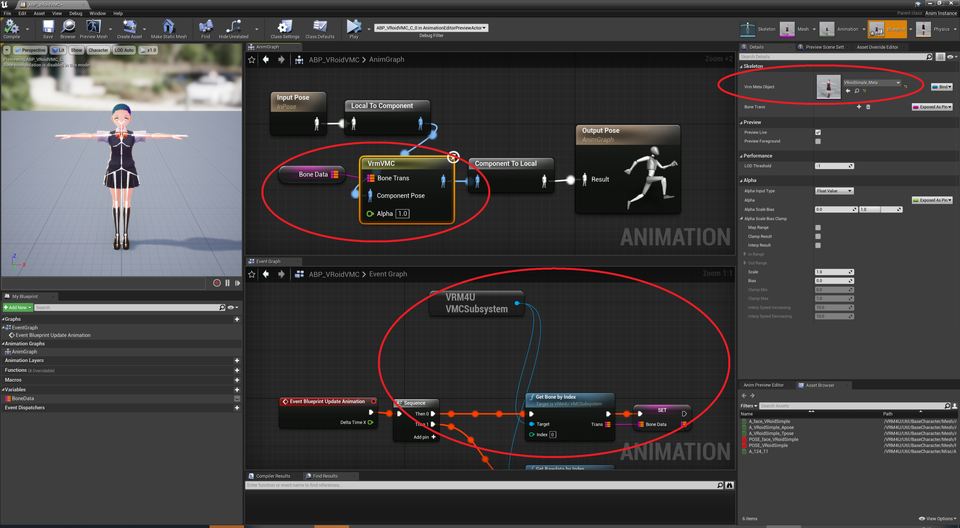
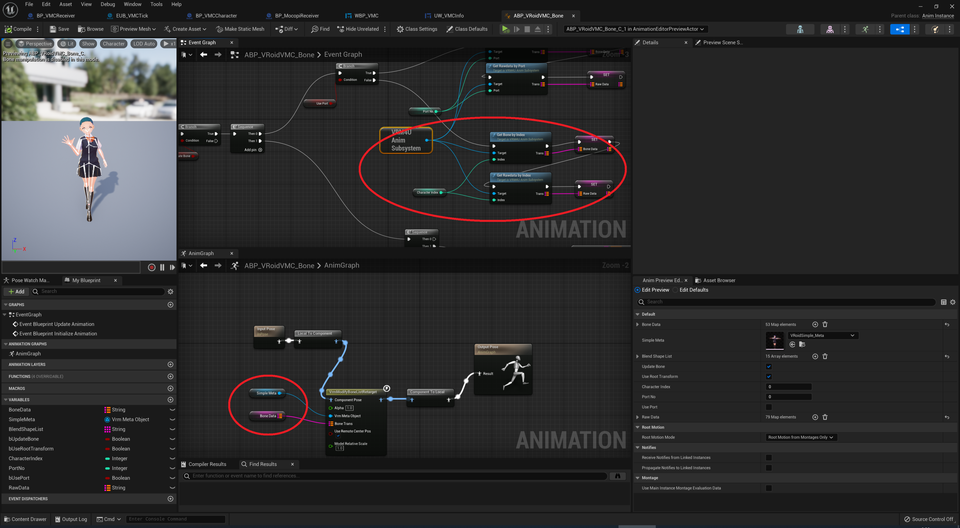
VMC詳細追加

diff --git a/VRM4U/08_vmc.md b/VRM4U/08_vmc.md
@@ -25,15 +25,42 @@ Virtual Motion Capture Protocol（以下VMC Protocol）の紹介は[こちらか
 
 動作にはEpic公式の`OSCプラグイン`が必要です。有効化し、エディタを再起動ください。
 
-サンプルマップ `VRM4U_VMC` を参照ください。
-
-レベル上のBP_VrmReceiverにポート番号を設定後、Listenボタンを押すかPlayInしてください。
-
 ||
 |-|
 |[![](./assets/images/small/08a_plugin.png)](../assets/images/small/08a_plugin.png)|
 
-## AnimBPの解説
+サンプルマップ `VRM4U_VMC` を参照ください。
+動作させる方法が3通りあります。
+
+ - 方法その１．(オススメ)
+   - BP_VrmReceiverにポート番号を指定、ServerListenボタンを押す。エディタモードのままアニメーションします。
+ - 方法その２．
+   - EUW_VMC を利用し、ServerListenボタンを押す。内部的には方法その１と同じ。
+ - 方法その３．
+   - BP_VrmReceiverにポート番号を指定、PlayInする。
+ 
+|BP_VrmReceiverから起動|EUW_VMCから起動|
+|-|-|
+|[![](./assets/images/small/08a_server.png)](../assets/images/small/08a_server.png)|[![](./assets/images/small/08a_wbp.png)](../assets/images/small/08a_wbp.png)|
+
+
+### EUW_VMC 解説
+
+`EUW_VMC` を右クリックより起動します。
+正しく受信できた場合は、図のようにWidgetにログが表示されます。
+全ての受信データを確認したい場合は、Widgetより `RawData` をOnにしてください。
+
+|||
+|-|-|
+|[![](./assets/images/small/08a_wbp3.png)](../assets/images/small/08a_wbp3.png)|[![](./assets/images/small/08a_wbp2.png)](../assets/images/small/08a_wbp2.png)|
+
+Widgetにポート番号が表示されない場合は、OSCプラグインを有効化してください。
+{: .notice--info}
+
+EUB_VMCTick について警告が出る場合は、EUB_VMCTickをレベル上に配置ください。
+{: .notice--info}
+
+### AnimBPの解説
 
 動かす対象モデルでAnimBPを作成し、アニムグラフにVrmModifyBoneListノードを追加します。
 
@@ -45,47 +72,33 @@ Virtual Motion Capture Protocol（以下VMC Protocol）の紹介は[こちらか
 |-|
 |[![](./assets/images/small/08a_node.png)](../assets/images/small/08a_node.png)|
 
-
-## VMC Protocolを受け取る
-
-`EUW_VMC` を起動します。
-受信ポート番号を確認し、`RunServer` をクリックすれば完了です。
-
-||
-|-|
-|[![](./assets/images/small/08a_panel.png)](../assets/images/small/08a_panel.png)|
-
-正しく受信できた場合は、図のようにWidgetにログが表示されます。
-全ての受信データを確認したい場合は、Widgetより `RawData` をOnにしてください。
-
-Widgetにポート番号が表示されない場合は、OSCプラグインを有効化してください。
-{: .notice--info}
-
 ----
 
 ## 詳細解説（UEの操作に慣れてる人向け）
 
-### ブレンドシェイプを受け取る
+### OSCの受信データを見る （ブレンドシェイプ、トラッカー）
 
 サンプルマップのAnimBPを参照ください。
 VRM4U_AnimationSubsystem内にある、受信データから検索します。
-文字列 `/VMC/Ext/Blend/Val:Blink` などで見つかります。
 
-### トラッカー情報を受け取る
+- ブレンドシェイプを見たい場合
+  - 文字列 `/VMC/Ext/Blend/Val:Blink` などで見つかります。
 
-ブレンドシェイプと同様です。
-文字列 `/VMC/Ext/Tra/Pos:LeftHand` などで見つかります。
+- トラッカーを見たい場合
+  - 文字列 `/VMC/Ext/Tra/Pos:LeftHand` などで見つかります。
 
-その他の受信データの詳細は、Widgetより `RawData` をOnにすると表示されます。
+その他の受信データの詳細は、Widgetより `RawData` をOnにして確認ください
 
-### マップ上で直接プレビューする。PlayInなし。
+### マップ上で直接プレビューする仕組み
 
-SkeletalMeshの`Update Animation in Editor` をONにしてください。
-前段の手順にて、「Listen」ボタンを押した際に自動的にONになります。
+OSCサーバの`EditorTick`を有効化しています。
+これはEditorUtilityからのみアクセス可能なので、EUB_VMCTick というActorを経由しています。
+
+また、SkeletalMeshの`Update Animation in Editor` をONにしています。
 
 ### 揺れ骨を適用する
 
-揺れ骨を適用する場合は`VRMSpringBone`ノードも追加ください。
+揺れ骨を適用する場合は、AnimBlueprintに`VRMSpringBone`ノードも追加ください。
 [揺れ骨の解説はこちら](../01_animation/)
 
 ### 複数の外部アプリからのデータ受信
@@ -93,9 +106,3 @@ SkeletalMeshの`Update Animation in Editor` をONにしてください。
 レベルに各種Receiverをを複数配置し、ポート番号を設定ください。それぞれデータが受信されます。
 
 データの参照には、`VRM4U_AnimationSubsystem`へのアクセス時に、「ポート番号指定」または「通し番号指定」を利用してください。
-
-### RunServer を押した時の挙動
-
-ボタンを押すと レベルに`BP_VMCReceiver`がスポーンします。同時にポート番号を設定し、データ受信を開始します。データは`VRM4U_AnimationSubsystem`に格納されます。
-
-EditorUtilityWidgetを経由しているため、いつでもデータ受信が可能です。プレビューであれば PlayInは不要です。このページのトップ絵も PlayInしていない状態です。
